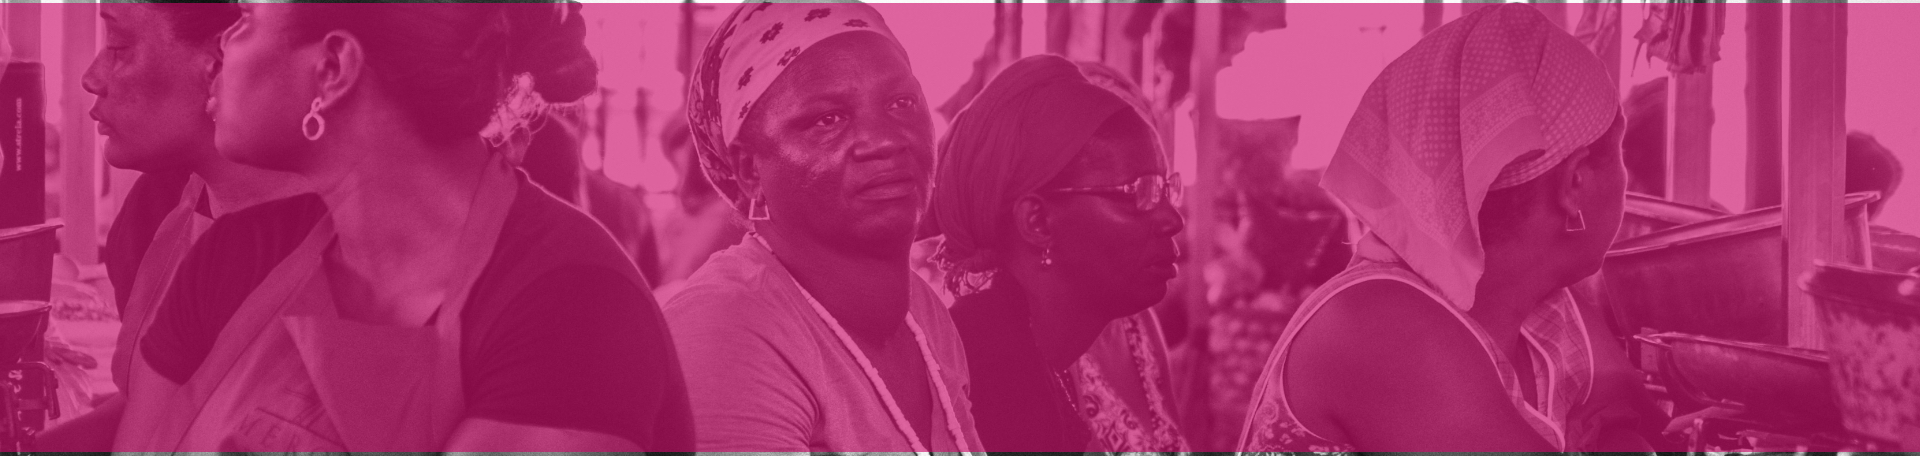
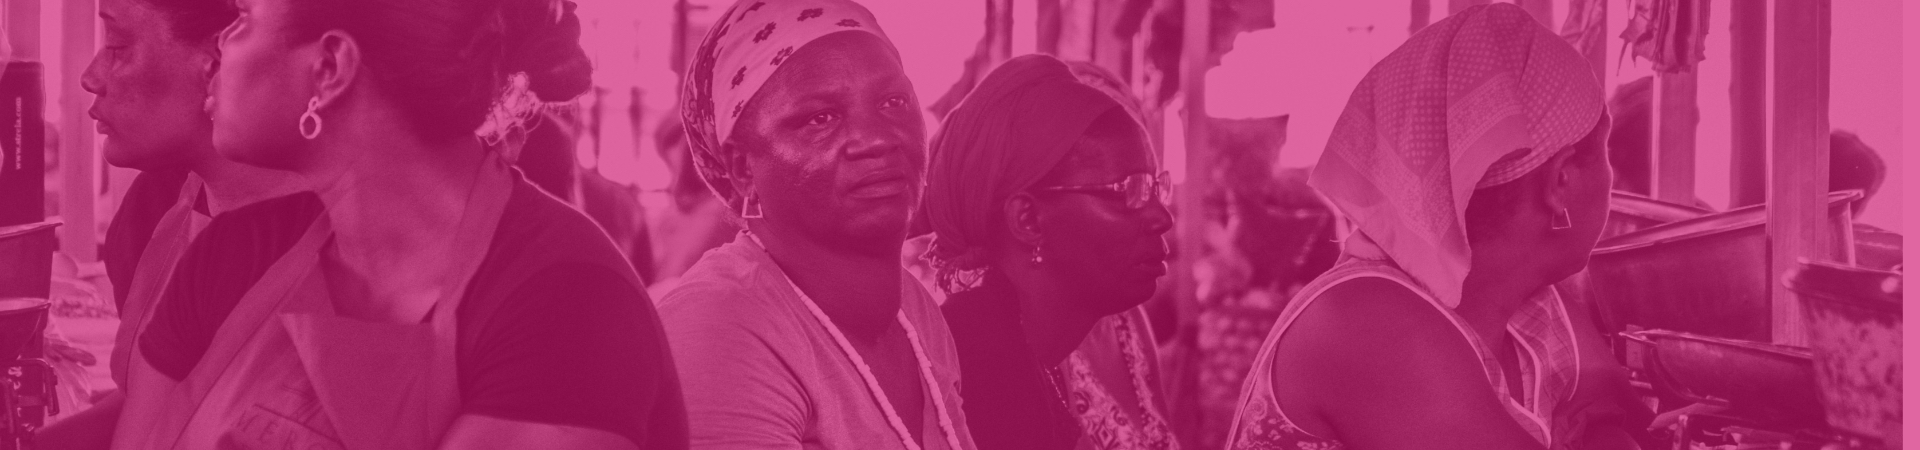
Styling itemcards

diff --git a/saudi/src/components/Seller/SellerItemList.js b/saudi/src/components/Seller/SellerItemList.js
@@ -3,6 +3,23 @@ import { connect } from "react-redux";
 import { withRouter, Link } from "react-router-dom"
 import { getItemsUserId } from "../../actions";
 import AddModal from '../modal/AddModal';
+import styled from 'styled-components';
+
+const ModalContainer = styled.div`
+    margin: 20px;
+`;
+
+const CardContainer = styled.div`
+    border: 2px solid #83E38D;
+    max-width: 250px;
+    padding: 10px;
+    margin: 20px;
+    background: white;
+`;
+
+const ItemPhoto= styled.img`
+    max-width: 250px;
+`
 
 
 class SellerItemList extends React.Component {
@@ -16,19 +33,19 @@ class SellerItemList extends React.Component {
         console.log("s_ItemList", this.props.items)
         return (
             <div className="seller-item-list">
-                <AddModal item={item} />
+                <ModalContainer >
+                     <AddModal item={item} />
+                </ModalContainer>
                 {this.props.items.map((item, key) => {
-                    return (
-                        <>
-                            <div className="item-list-card" key={key}>
-                        <Link to={`/item/${item.id}`}>
-                                <img className="item-photo" src={item.photo_url} alt="item" />
-                                <h3>{item.name}</h3>
-                        </Link>
-                                <span>{item.price}</span>
+                    return (             
+                            <CardContainer key={key}>
+                                <Link to={`/item/${item.id}`}>
+                                    <ItemPhoto className="item-photo" src={item.photo_url} alt="item" />
+                                    <h3>{item.name}</h3>
+                                </Link>
+                                <span>${item.price}</span>
                                 <p>{item.description}</p>
-                            </div>
-                        </>
+                            </CardContainer>                    
                     )
                 })}
             </div>

diff --git a/saudi/src/components/InventoryList.js b/saudi/src/components/InventoryList.js
@@ -7,10 +7,25 @@ const InventoryListContainer= styled.div`
     display: flex;
     justify-content: space-evenly;
     padding: 30px 0;
+    
 `
 const ItemPhoto= styled.img`
     max-width: 250px;
 `
+const SearchContainer = styled.div`
+    background: #1D2C3C;
+    height: 50px;
+`;
+
+const Search = styled.input`
+    margin: 10px 40px;
+`;
+
+const CardContainer = styled.div`
+    border: 2px solid #83E38D;
+    padding: 10px;
+    max-width: 275px;
+`;
 
 class InventoryList extends React.Component {
     constructor() {
@@ -41,25 +56,26 @@ class InventoryList extends React.Component {
         );
         return(
             <>
-            <div className='search-bar'>
-                 <label>Search</label>
-                <input 
+            <SearchContainer>
+                 
+                <Search 
                     type="text" 
                     value={this.state.search} 
-                    onChange={(e) => this.updateSearch(e)}   
+                    onChange={(e) => this.updateSearch(e)} 
+                    placeholder="Search"  
                 />
-            </div>
+            </SearchContainer>
             <div>
                
             </div>
             <InventoryListContainer>
                 {filteredItems.map(item => {
                     return(
-                        <div className="item-list-card">
+                        <CardContainer>
                             <ItemPhoto src={item.photo_url} alt="item" />
-                            <h3>{item.name}<span>{item.price}</span></h3>
+                            <h3>{item.name}<span>${item.price}</span></h3>
                             <p>{item.description}</p>
-                        </div>
+                        </CardContainer>
                     )
                 })}
             </InventoryListContainer>

diff --git a/saudi/src/components/Seller/SellerPage.js b/saudi/src/components/Seller/SellerPage.js
@@ -3,21 +3,29 @@ import SellerItemList from "./SellerItemList";
 import { connect } from 'react-redux';
 import { getItemsUserId } from '../../actions';
 import styled from 'styled-components';
-import SellerPageHeader from '../../images/SellerPage.jpg'
+import SellerPageHeader from '../../images/BioPage.jpg'
 
 const Header = styled.div`
     background-image: url(${SellerPageHeader});
     background-size: 100%;
-    width: auto;
-    height: 100%;
+    height: 254px;
+   
 
 `;
 
 const Title = styled.h1`
-    height: 254px;
     color: white;
     font-family: 'Source Sans Pro', sans-serif;
     text-align: center;
+    padding-top: 15%;
+`;
+
+const Container = styled.div`
+    display: flex;
+    width: 80%;
+    margin: 10px auto;
+    background: #FFFFF1;
+
 `;
 
 //componentDidMount set user_id in local storage for the user_id endpoint
@@ -31,9 +39,11 @@ class SellerPage extends React.Component {
         return (
             <div className="seller-page">
                 <Header>
-                    <Title>Seller Page</Title>
+                    <Title>My Store</Title>
                 </Header>
-                <SellerItemList />
+                <Container>
+                    <SellerItemList />
+                </Container>
             </div>
         )
     }

diff --git a/saudi/src/components/Login.js b/saudi/src/components/Login.js
@@ -26,6 +26,7 @@ const LoginButton= styled.button`
     padding: 0;
     background-color: mediumvioletred;
     border-radius: 5px;
+    color: white;
 `
 
 const LoginInput= styled.input`
